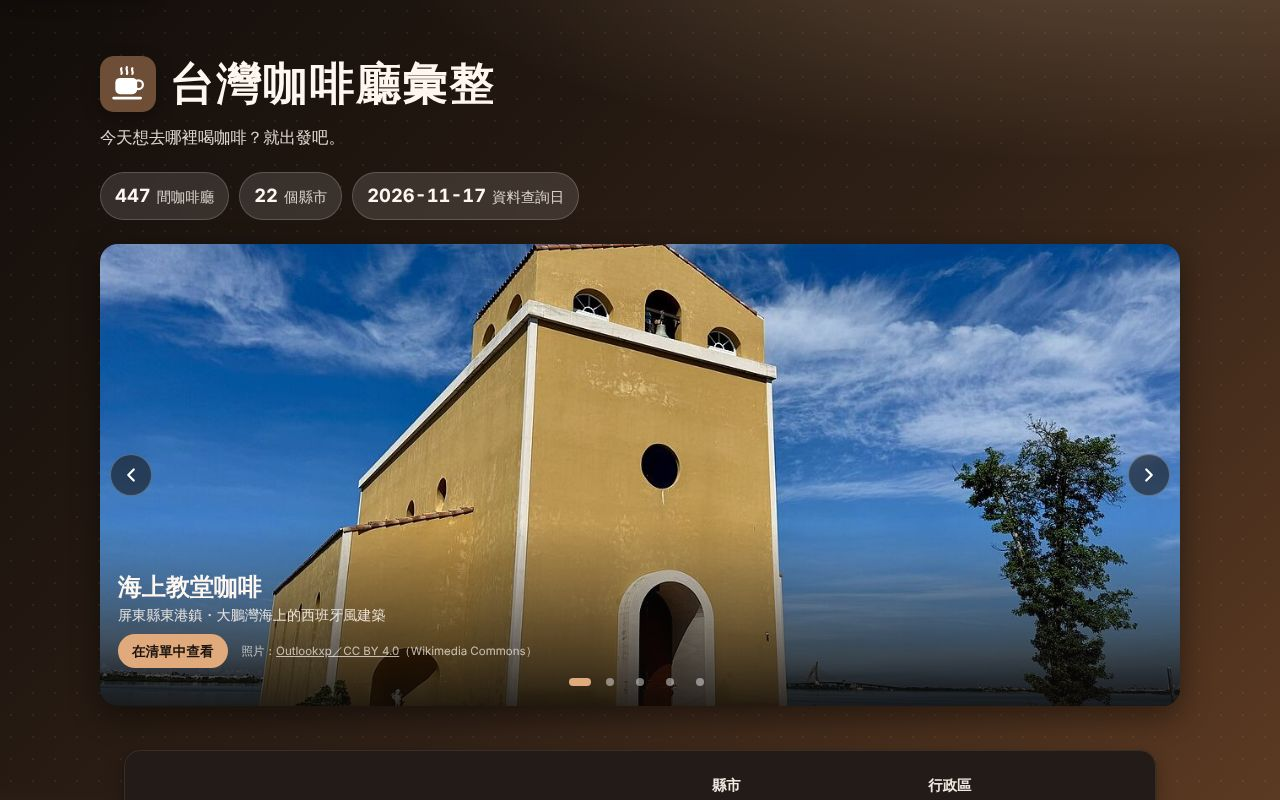
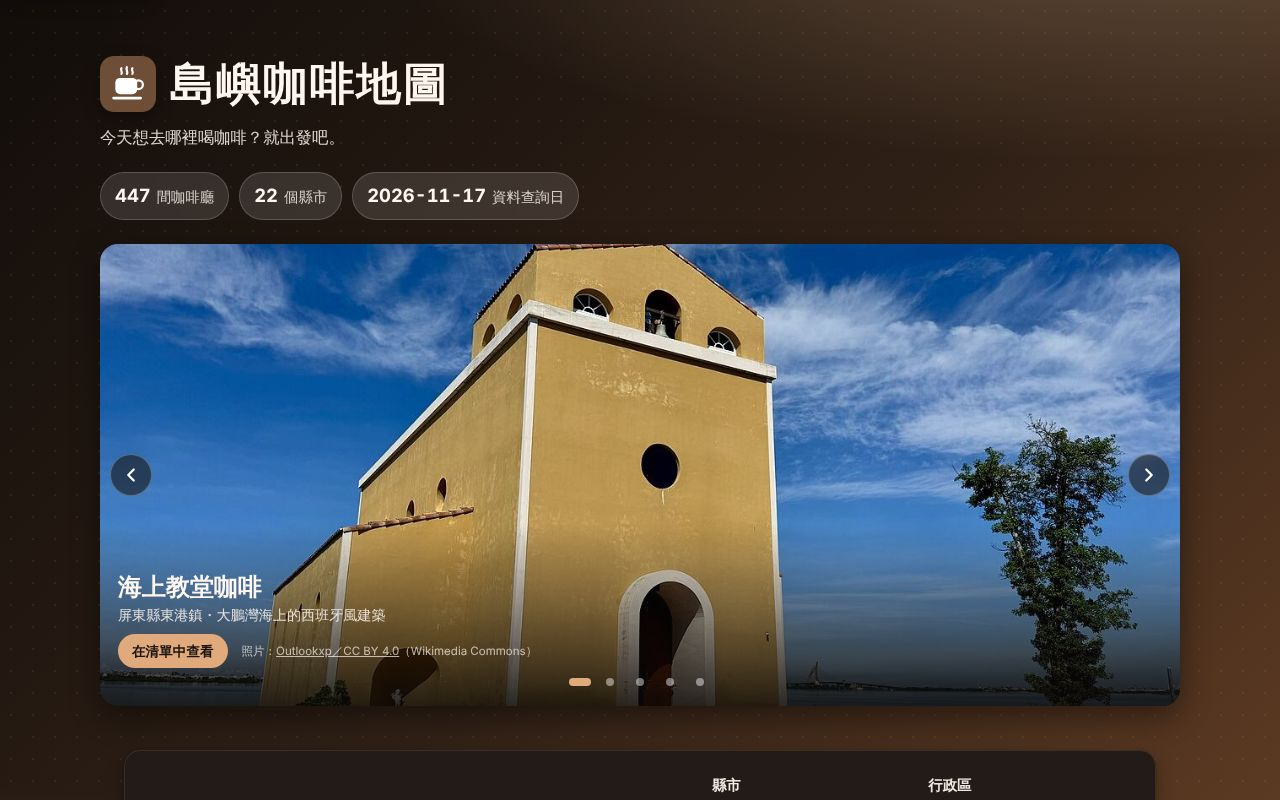
網站改名為島嶼咖啡地圖
Claude-Session: https://claude.ai/code/session_01LUVCkZAwZdgNwQd1aVRFf3

Changed region(s): [[0.2812, 0.0625, 0.4062, 0.1562], [0.125, 0.0625, 0.2188, 0.125]]

diff --git a/index.html b/index.html
@@ -4,8 +4,8 @@
   <meta charset="utf-8">
   <meta name="viewport" content="width=device-width, initial-scale=1">
   <meta name="color-scheme" content="dark">
-  <title>台灣咖啡廳彙整</title>
-  <meta name="description" content="台灣咖啡廳彙整：全台 22 縣市，依縣市、行政區與特色篩選，附地址、營業時間、公休日與地圖連結">
+  <title>島嶼咖啡地圖</title>
+  <meta name="description" content="島嶼咖啡地圖：全台 22 縣市，依縣市、行政區與特色篩選，附地址、營業時間、公休日與地圖連結">
   <!-- PWA：安裝到主畫面 -->
   <link rel="manifest" href="manifest.webmanifest">
   <meta name="theme-color" content="#17120f">
@@ -14,11 +14,11 @@
   <link rel="apple-touch-icon" href="icons/apple-touch-icon.png">
   <meta name="apple-mobile-web-app-capable" content="yes">
   <meta name="mobile-web-app-capable" content="yes">
-  <meta name="apple-mobile-web-app-title" content="台灣咖啡">
+  <meta name="apple-mobile-web-app-title" content="島嶼咖啡">
   <meta name="apple-mobile-web-app-status-bar-style" content="black">
   <!-- 版本號：每次修改 style.css、cafes.js、app.js 後請一起更新，
        並同步更新 sw.js 的 VERSION，讓瀏覽器與離線快取都換成新版 -->
-  <link rel="stylesheet" href="style.css?v=20261117-12">
+  <link rel="stylesheet" href="style.css?v=20261117-13">
 </head>
 <body>
   <a class="skip-link" href="#cafe-list">跳到咖啡廳清單</a>
@@ -26,7 +26,7 @@
     <div class="hero-inner">
       <div class="hero-title">
         <img class="hero-icon" src="icons/icon.svg" alt="" width="56" height="56">
-        <h1>台灣咖啡廳彙整</h1>
+        <h1>島嶼咖啡地圖</h1>
       </div>
       <p class="hero-sub"><span>今天想去哪裡喝咖啡？</span><span>就出發吧。</span></p>
       <ul class="stats" aria-label="收錄概況">
@@ -118,8 +118,8 @@
     <svg viewBox="0 0 24 24" aria-hidden="true"><path d="m6 14 6-6 6 6"/></svg>
   </button>
 
-  <script src="cafes.js?v=20261117-12"></script>
-  <script src="slides.js?v=20261117-12"></script>
-  <script src="app.js?v=20261117-12"></script>
+  <script src="cafes.js?v=20261117-13"></script>
+  <script src="slides.js?v=20261117-13"></script>
+  <script src="app.js?v=20261117-13"></script>
 </body>
 </html>

diff --git a/sw.js b/sw.js
@@ -1,4 +1,4 @@
-// 台灣咖啡廳彙整 PWA 的 Service Worker
+// 島嶼咖啡地圖 PWA 的 Service Worker
 //
 // 快取策略：本站檔案（網頁、資料、樣式、程式、圖示）先連網路拿最新版，
 // 連不上才用快取。這樣資料更新後不會卡在舊版，離線時仍能瀏覽上次的清單。
@@ -6,7 +6,7 @@
 //
 // 版本號：修改下面 PRECACHE 裡的檔案或 index.html 的 ?v= 版本號時，
 // 請一起更新 VERSION，舊快取會在新版啟用時自動清除。
-const VERSION = "20261117-12";
+const VERSION = "20261117-13";
 const PREFIX = "taichung-cafe-";
 const CACHE = PREFIX + VERSION;
 // 先前「報修登記」版本留下的快取，一併清除

diff --git a/cafes.js b/cafes.js
@@ -1,4 +1,4 @@
-// 台灣咖啡廳彙整資料（全台 22 縣市）
+// 島嶼咖啡地圖資料（全台 22 縣市）
 //
 // 資料來源：網路上公開的咖啡廳推薦文章（清單見 SOURCES），由 AI 透過網路搜尋整理。
 // 查詢日期：CHECKED_AT。營業時間、公休日常會變動，前往前請以店家官方公告為準。

diff --git a/app.js b/app.js
@@ -1,4 +1,4 @@
-// 台灣咖啡廳彙整：篩選與顯示
+// 島嶼咖啡地圖：篩選與顯示
 (function () {
   "use strict";
 

diff --git a/AGENTS.md b/AGENTS.md
@@ -1,6 +1,6 @@
-# 專案規則：台灣咖啡廳彙整
+# 專案規則：島嶼咖啡地圖
 
-根目錄網頁是「台灣咖啡廳彙整」（收錄全台 22 縣市），用 GitHub Pages 發佈（https://kid751003-source.github.io/repair-system/）。純 HTML/CSS/JavaScript，不需要建置工具、資料庫或金鑰。`設備借用/` 是另一個專案，有自己的 `AGENTS.md`，在那個資料夾工作時以它為準。
+根目錄網頁是「島嶼咖啡地圖」（收錄全台 22 縣市），用 GitHub Pages 發佈（https://kid751003-source.github.io/repair-system/）。純 HTML/CSS/JavaScript，不需要建置工具、資料庫或金鑰。`設備借用/` 是另一個專案，有自己的 `AGENTS.md`，在那個資料夾工作時以它為準。
 
 ## 專案結構
 

diff --git a/README.md b/README.md
@@ -1,6 +1,6 @@
-# 台灣咖啡廳彙整
+# 島嶼咖啡地圖
 
-根目錄網頁是「台灣咖啡廳彙整」：收錄全台 22 縣市的咖啡廳，依縣市、行政區與特色篩選，列出地址、營業時間、公休日、特色標籤，並附 Google 地圖連結。可安裝成手機 App（PWA）。
+根目錄網頁是「島嶼咖啡地圖」：收錄全台 22 縣市的咖啡廳，依縣市、行政區與特色篩選，列出地址、營業時間、公休日、特色標籤，並附 Google 地圖連結。可安裝成手機 App（PWA）。
 
 網址：https://kid751003-source.github.io/repair-system/
 
